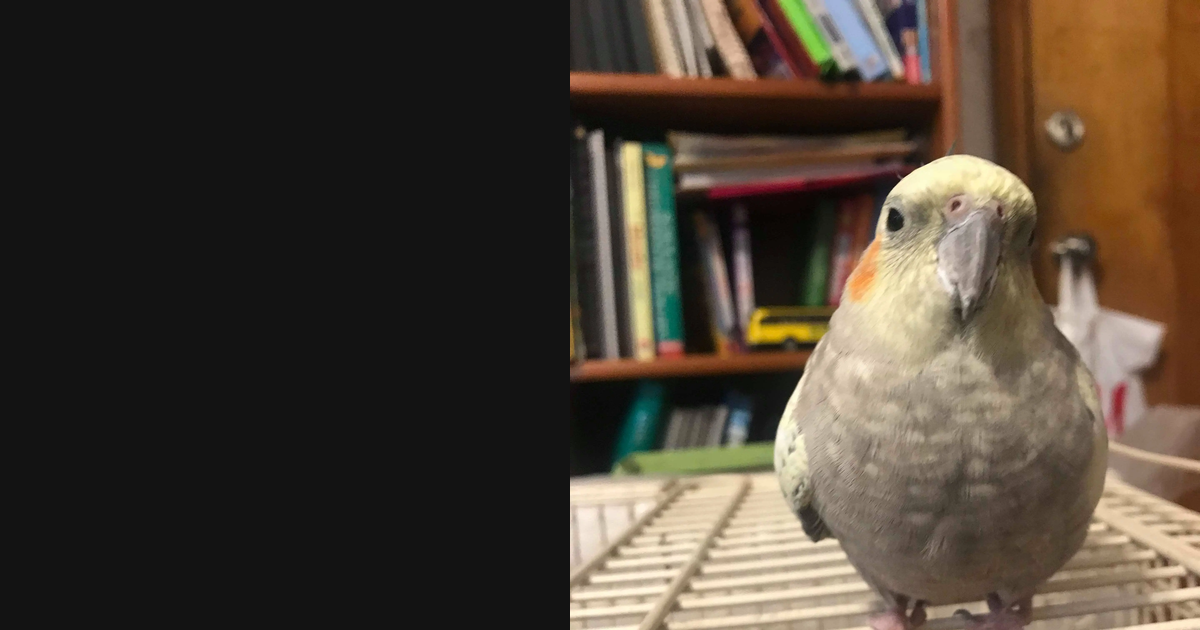
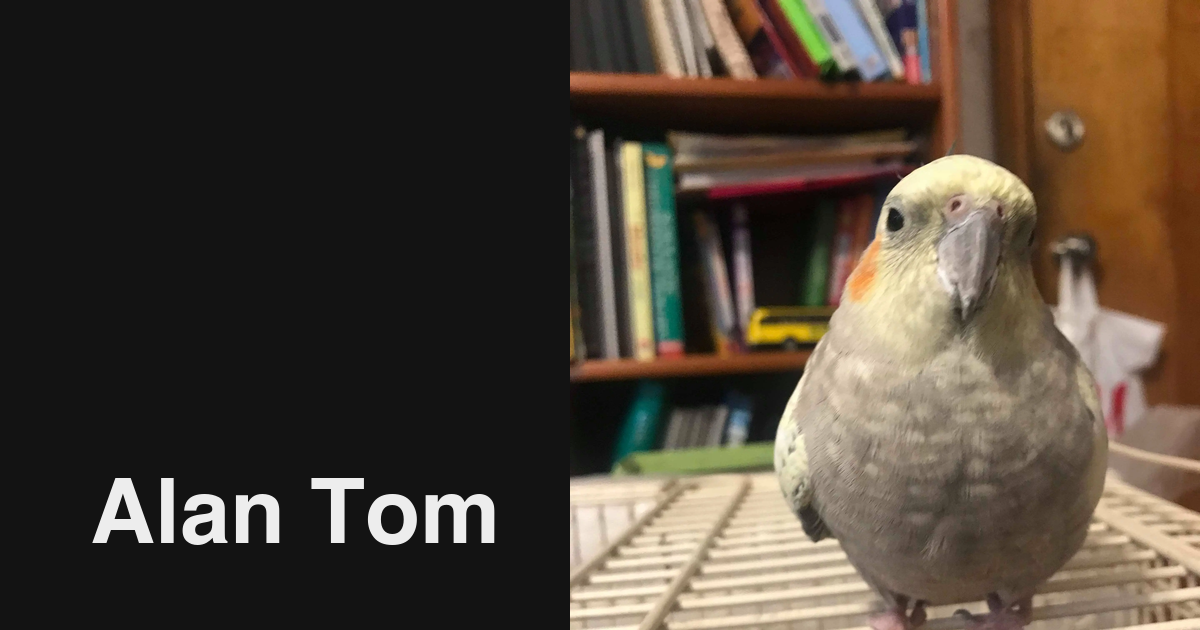
Update OG image with name and format experience locations to @ SU

Changed region(s): [[0.0617, 0.754, 0.2467, 0.8746], [0.2467, 0.754, 0.4317, 0.8746]]

diff --git a/lib/constants.ts b/lib/constants.ts
@@ -76,21 +76,21 @@ export const EXPERIENCES: Experience[] = [
       "led Syracuse's largest student-run hackathon, orchestrating 40% YoY attendance growth, $10K+ in sponsorships, and a 15+ member leadership council",
   },
   {
-    company: "Micron × Syracuse University",
+    company: "Micron × SU",
     role: "Game Development Intern",
     years: "4 semesters · 2024–2026",
     description:
       "joint project building an educational game that teaches semiconductor manufacturing",
   },
   {
-    company: "iSchool at Syracuse University",
+    company: "iSchool @ SU",
     role: "NSF REU Researcher",
     years: "2025",
     description:
       "engineered financial sentiment pipeline using FinBERT/Llama 3.1, analyzing Truth Social posts",
   },
   {
-    company: "Data Lab at Syracuse University",
+    company: "Data Lab @ SU",
     role: "Undergraduate Researcher",
     years: "2024–2025",
     description:
